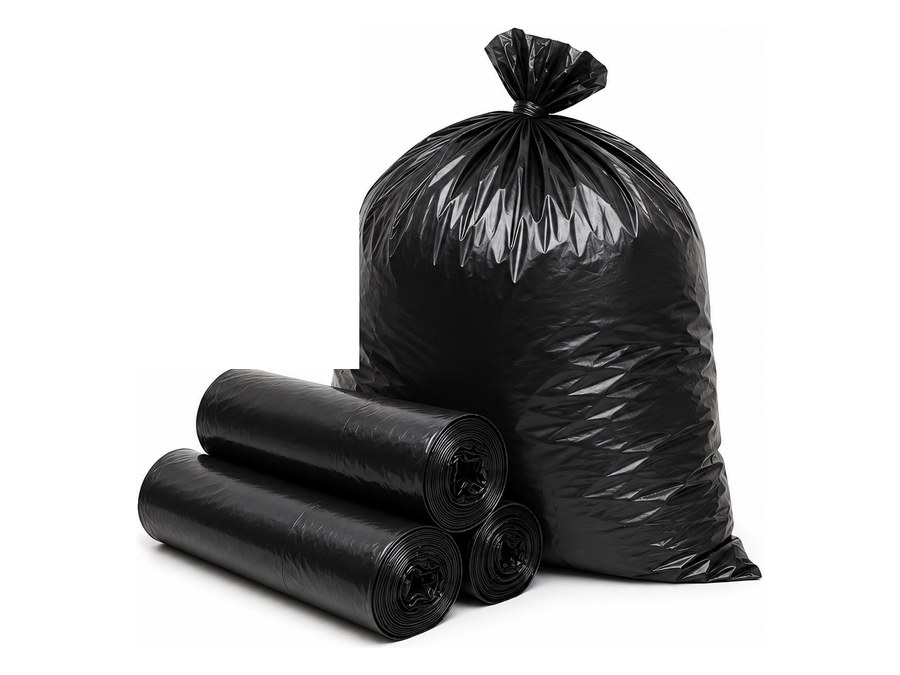
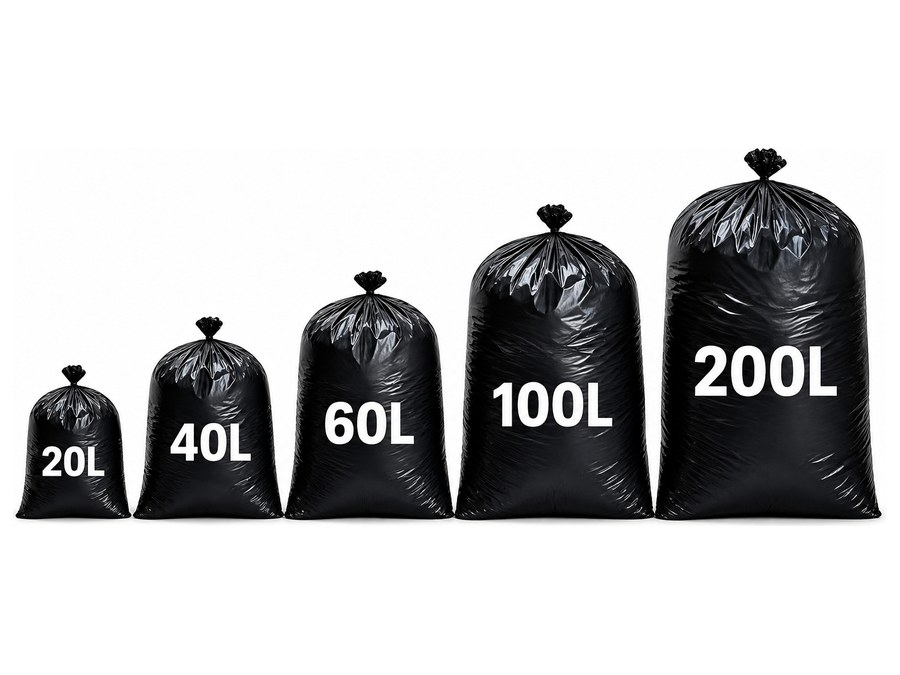
produto sacola de lixo preto
Mudando a foto de aparecia por opçaõ do cliente.

diff --git a/assets/js/config.js b/assets/js/config.js
@@ -151,7 +151,7 @@ const CONFIG = {
       categoria: "sacos-lixo",
       descricao:
         "Espessura reforçada para uso comercial e resíduo pesado. Não rasga na hora de retirar do cesto.",
-      medidas: ["20L", "40L", "60L", "100L"],
+      medidas: ["20L", "40L", "60L", "100L", "200L"],
       unidade: "Pacote fechado",
       imagem: "assets/img/produtos/saco-lixo.jpg",
     },
